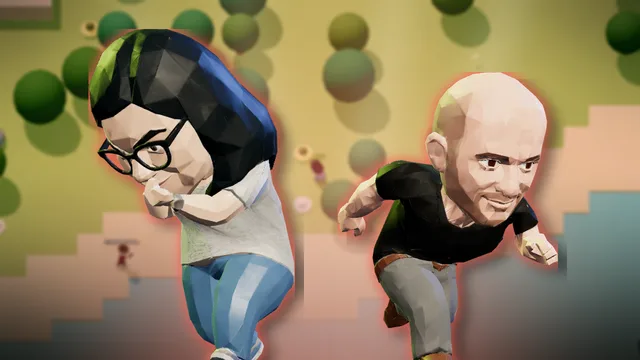
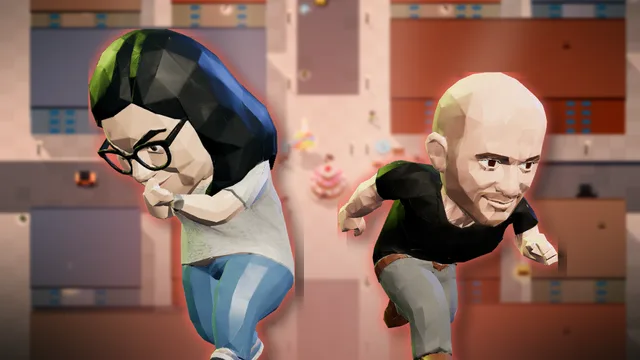
Battle Shmitz: póster nuevo con la ciudad del Queque, ícono del pico y botón del final
Claude-Session: https://claude.ai/code/session_01GR3Q3hi2WhZwo1w7uuPhJy

diff --git a/games/royale/public/js/iconos.js b/games/royale/public/js/iconos.js
@@ -12,7 +12,7 @@ export const ICONOS = {
   mini: svg('0 0 64 32', '<circle cx="32" cy="20" r="10"/><rect x="28" y="3" width="8" height="9" rx="1"/><rect x="26" y="1" width="12" height="4" rx="1"/>'),
   escudo: svg('0 0 64 32', '<rect x="21" y="8" width="22" height="22" rx="6"/><rect x="26" y="2" width="12" height="7" rx="2"/><rect x="30" y="13" width="4" height="12" fill="#fff6"/>'),
   granada: svg('0 0 64 32', '<circle cx="30" cy="19" r="11"/><rect x="26" y="4" width="9" height="6" rx="1"/><circle cx="41" cy="6" r="4" fill="none" stroke="currentColor" stroke-width="2.4"/>'),
-  pico: svg('0 0 64 32', '<path d="M8 10C22 0 42 0 58 9l-3 4C40 6 24 6 11 14z"/><path d="M31 6l5 1-5 24-5-1z"/>'),
+  pico: svg('0 0 64 32', '<path d="M10 15C20 4 42 2 56 8l1 4C44 8 26 9 13 18z"/><path d="M33 6l5 0 6 24-5 1z"/><circle cx="35" cy="8" r="3.4"/>'),
   madera: svg('0 0 32 32', '<rect x="3" y="7" width="26" height="8" rx="4"/><rect x="3" y="17" width="26" height="8" rx="4"/><circle cx="7" cy="11" r="2.4" fill="#0003"/><circle cx="7" cy="21" r="2.4" fill="#0003"/>'),
   piedra: svg('0 0 32 32', '<path d="M5 22l4-11 9-5 9 6 2 10-6 5H11z"/>'),
   metal: svg('0 0 32 32', '<path d="M3 12l13-6 13 6-13 6z"/><path d="M3 17l13 6 13-6v4l-13 6-13-6z"/>'),

diff --git a/games/royale/public/css/royale.css b/games/royale/public/css/royale.css
@@ -209,7 +209,7 @@ kbd { display: inline-grid; place-items: center; min-width: 20px; height: 20px; 
 @keyframes aparece { from { opacity: 0; } }
 .bs-fin-caja { width: min(520px, 100%); max-height: 100%; overflow: auto; text-align: center; color: #fff; background: var(--vidrio2); border: 1px solid var(--borde-v); border-radius: 22px; padding: 26px; box-shadow: 0 30px 90px rgba(0, 0, 0, .55); }
 .bs-fin-caja.gano { border-color: rgba(255, 200, 74, .7); box-shadow: 0 0 80px rgba(255, 200, 74, .25), 0 30px 90px rgba(0, 0, 0, .55); }
-.bs-fin-caja small { font: 800 13px var(--mono, monospace); letter-spacing: 3px; text-transform: uppercase; color: var(--lima); }
+.bs-fin-caja > small { font: 800 13px var(--mono, monospace); letter-spacing: 3px; text-transform: uppercase; color: var(--lima); }
 .bs-fin-caja h2 { margin: 6px 0; font: 900 clamp(46px, 8vw, 78px)/.9 'Barlow Condensed', Impact, sans-serif; text-transform: uppercase; }
 .bs-fin-caja.gano h2 { background: linear-gradient(180deg, #fff3c4, #ffc84a 60%, #ff9a3b); -webkit-background-clip: text; background-clip: text; color: transparent; filter: drop-shadow(0 4px 0 rgba(0, 0, 0, .4)); }
 .bs-fin-caja h2 span { font-size: .45em; color: #b9c2b4; }
